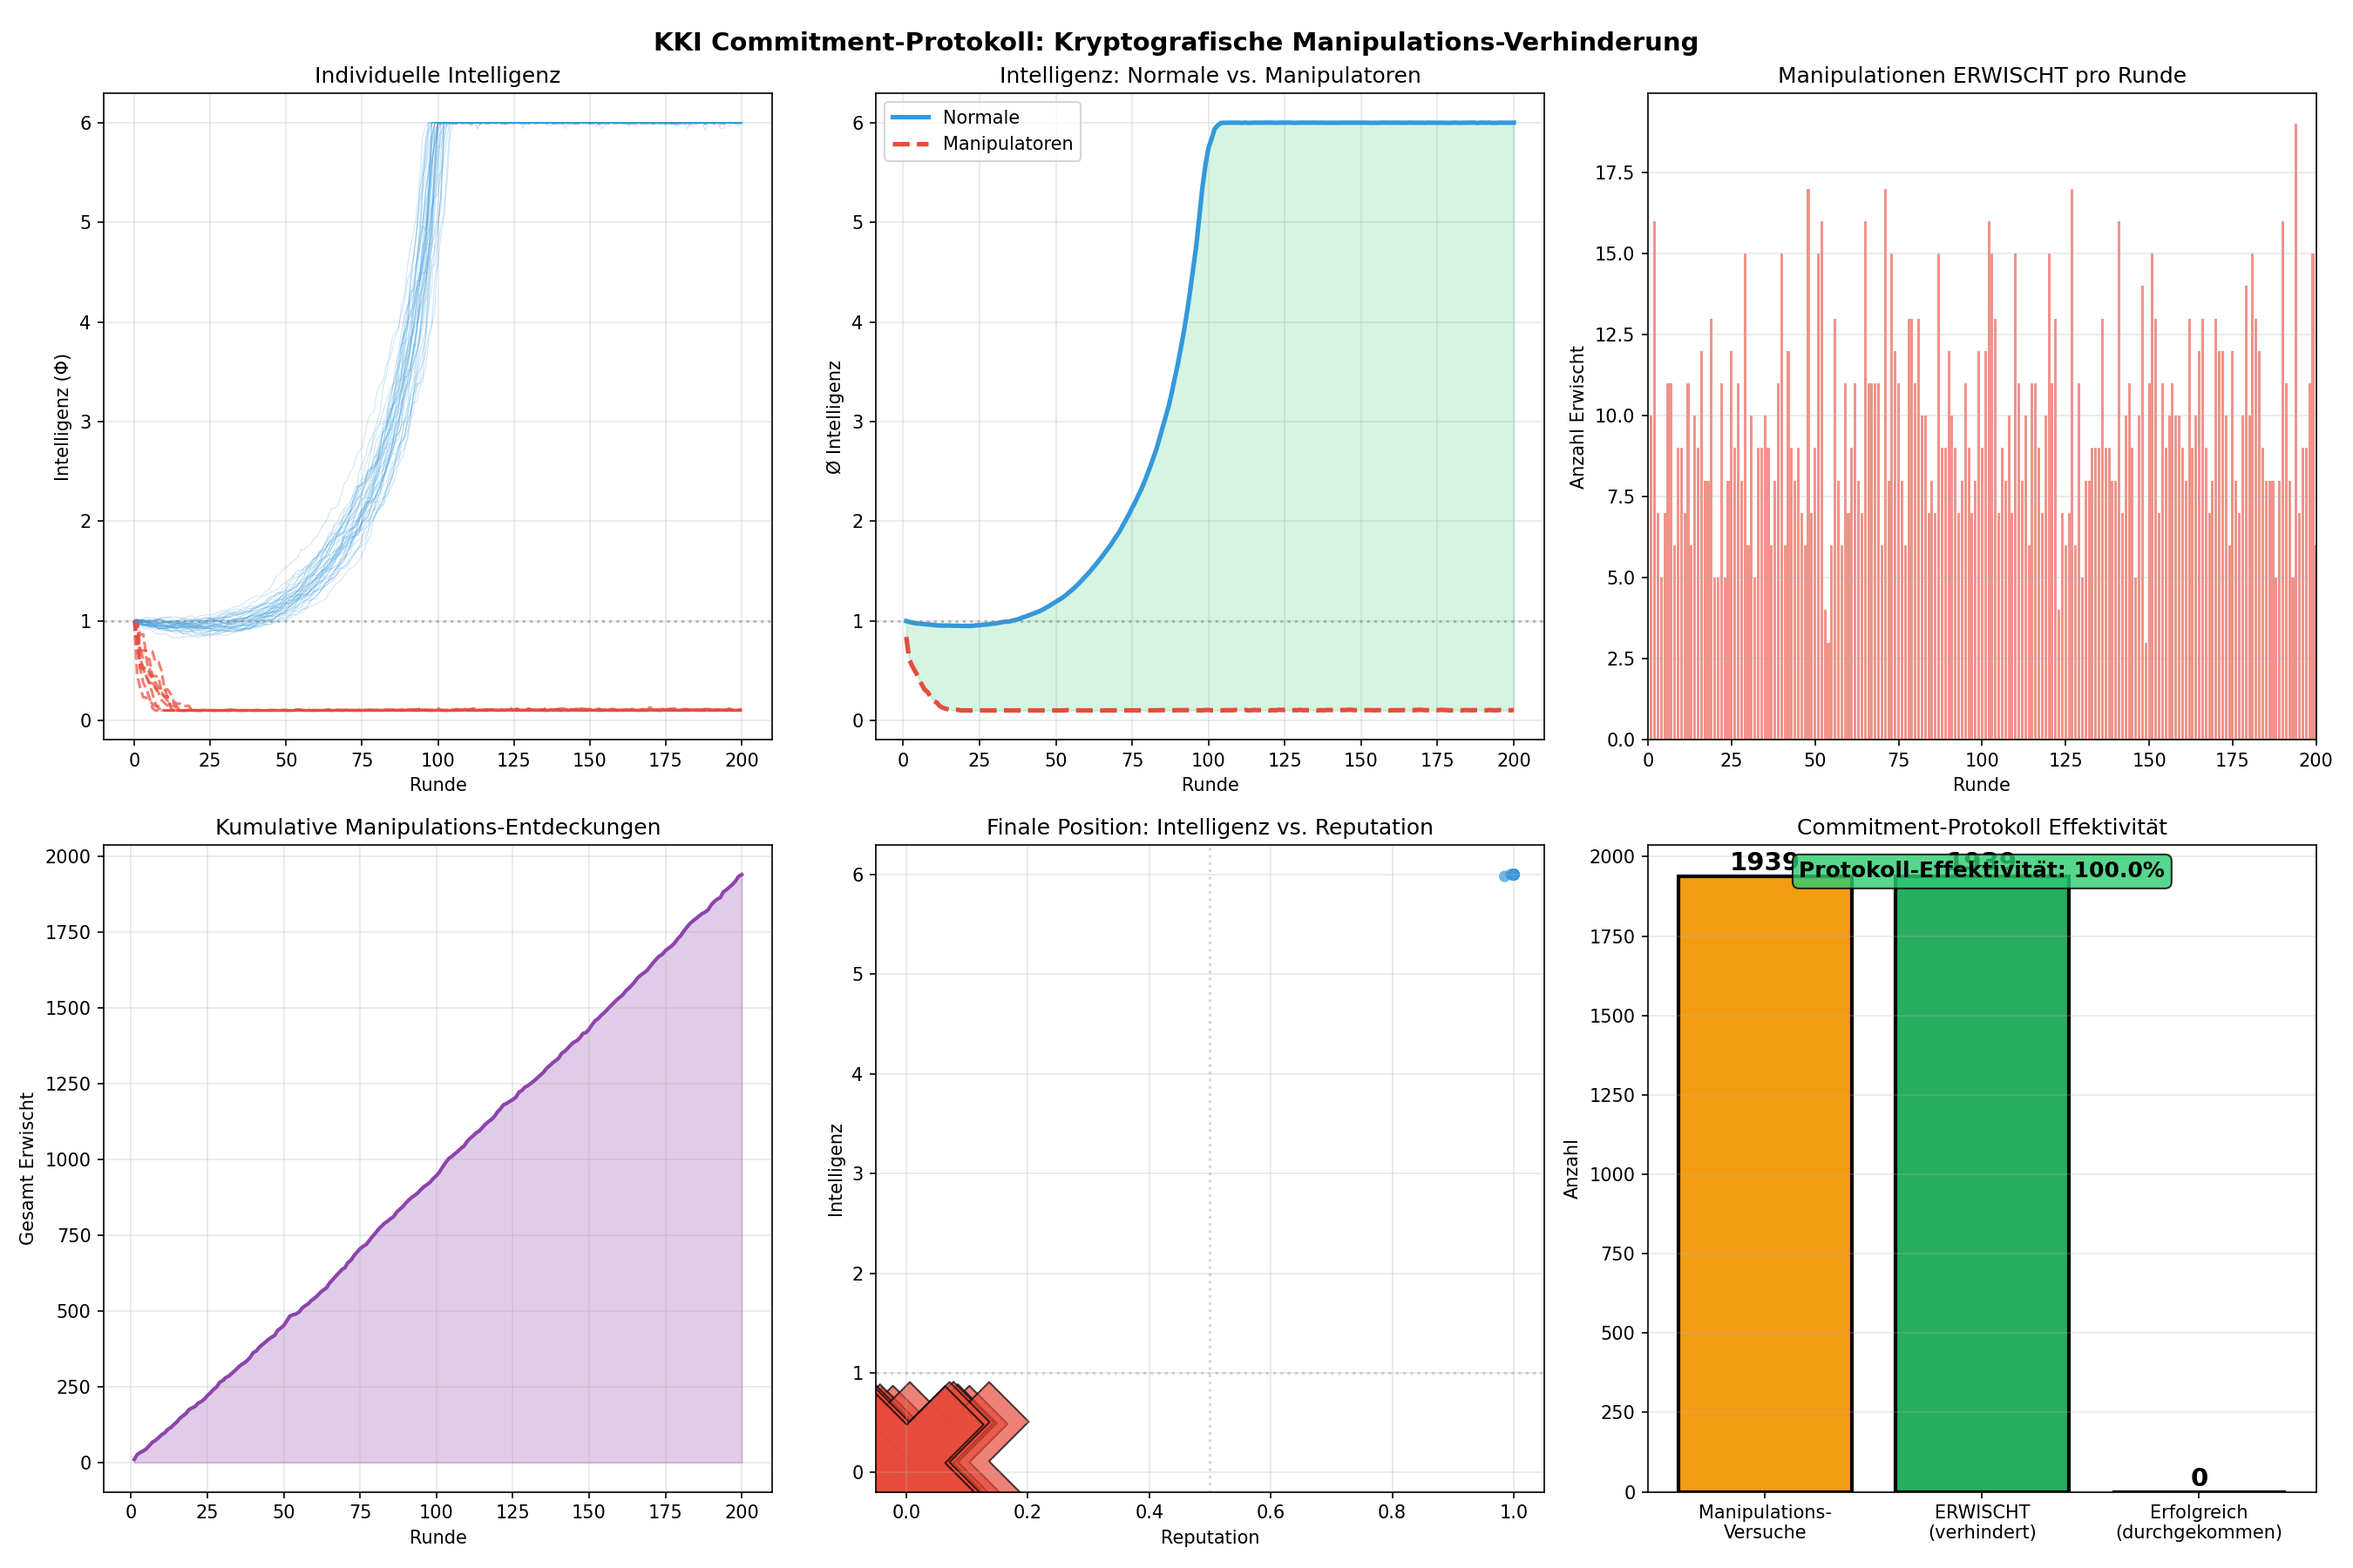
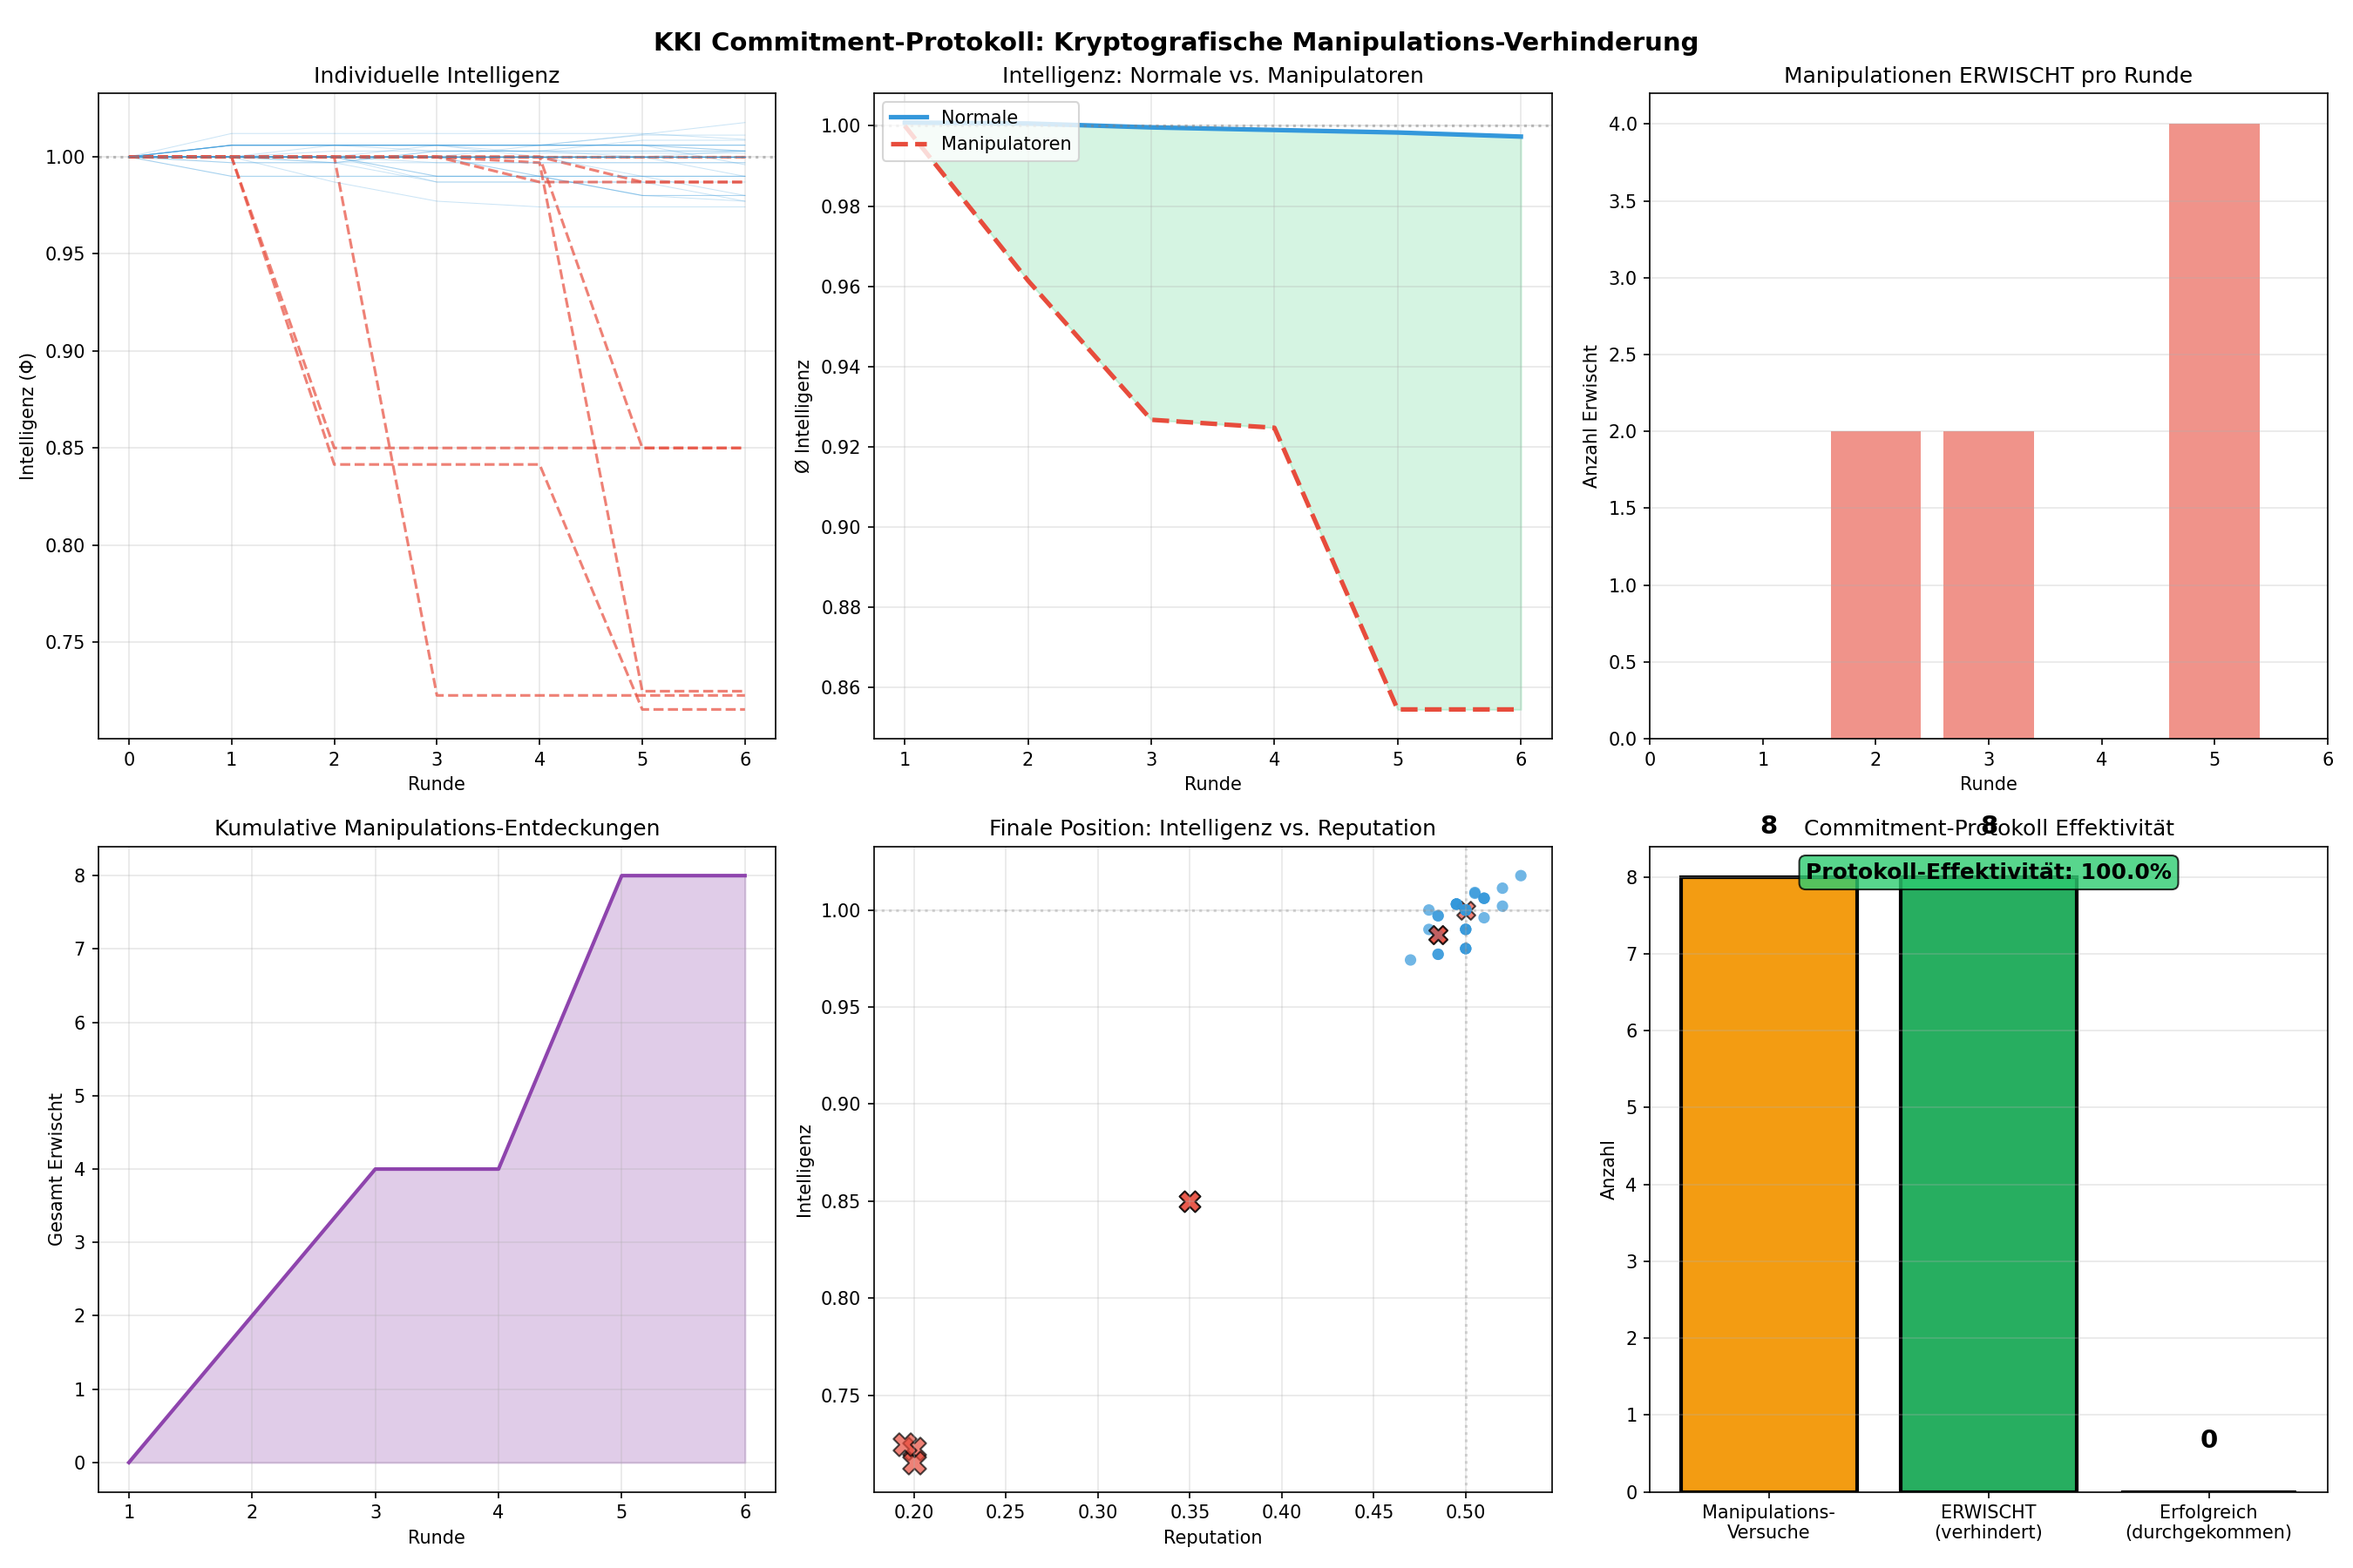
fix: decouple or update relativitaets_feld and commitment protokoll

diff --git a/kki/relativitaets_feld.py b/kki/relativitaets_feld.py
@@ -4,7 +4,7 @@ from __future__ import annotations
 from dataclasses import dataclass
 from enum import Enum
 
-from .quanten_verfassung import (
+from .quantenfelder_verfassung import (
     QuantenVerfassung,
     QuantenVerfassungsGeltung,
     QuantenVerfassungsNorm,
